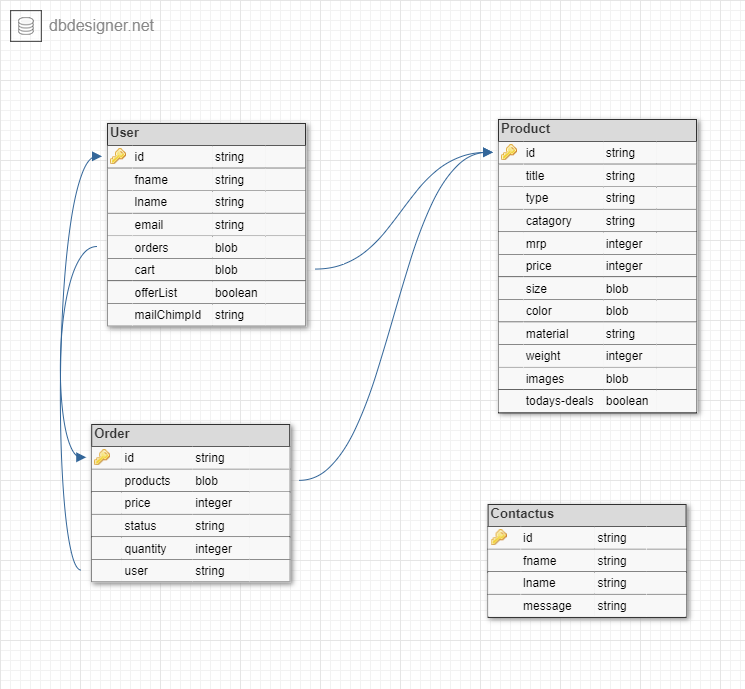
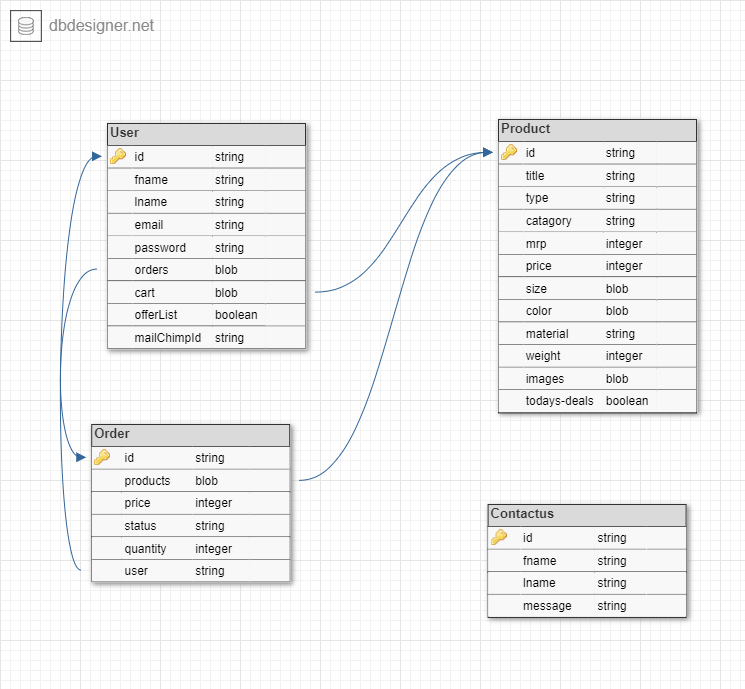
models

diff --git a/models/UserModel.js b/models/UserModel.js
@@ -1,0 +1,16 @@
+const { Schema, model } = require('mongoose');
+const Product = require('./ProductModel');
+const Order = require('./OrderModel');
+
+const UserSchema = new Schema({
+	fname: { type: String, required: true },
+	lname: { type: String, required: true },
+	email: { type: String, required: true },
+	password: { type: String, required: true },
+	offerList: { type: Boolean, required: true, default: false },
+	mailChimpId: { type: String, required: true },
+	cart: [{ type: Schema.Types.ObjectId, ref: Product }],
+	orders: [{ type: Schema.Types.ObjectId, ref: Order }],
+});
+
+module.exports = model('User', UserSchema);

diff --git a/models/ProductModel.js b/models/ProductModel.js
@@ -1,0 +1,17 @@
+const { Schema, model } = require('mongoose');
+
+const ProductSchema = new Schema({
+	title: { type: String, required: true },
+	type: { type: String, required: true },
+	category: { type: String, required: true },
+	mrp: { type: Number, required: true },
+	price: { type: Number, required: true },
+	weight: { type: Number, required: true },
+	material: { type: String, required: true },
+	todaysDeals: { type: Boolean, required: true },
+	size: [],
+	color: [],
+	images: [],
+});
+
+module.exports = model('Product', ProductSchema);

diff --git a/models/OrderModel.js b/models/OrderModel.js
@@ -1,0 +1,17 @@
+const { Schema, model } = require('mongoose');
+const Product = require('./ProductModel');
+const User = require('./UserModel');
+
+const OrderSchema = new Schema({
+	user: { type: Schema.Types.ObjectId, ref: User },
+	price: { type: Number, required: true },
+	status: { type: String, required: true, default: 'pending' },
+	products: [
+		{
+			id: { type: Schema.Types.ObjectId, ref: Product },
+			quantity: { type: String, required: true, default: 1 },
+		},
+	],
+});
+
+module.exports = model('Order', OrderSchema);

diff --git a/README.md b/README.md
@@ -72,4 +72,6 @@
 </h2>
 
 <h1 align='center'>DB design</h1>
+
+<p>data type blog is used to represent array of objects</p>
 <img src='./DB-design.png' />
